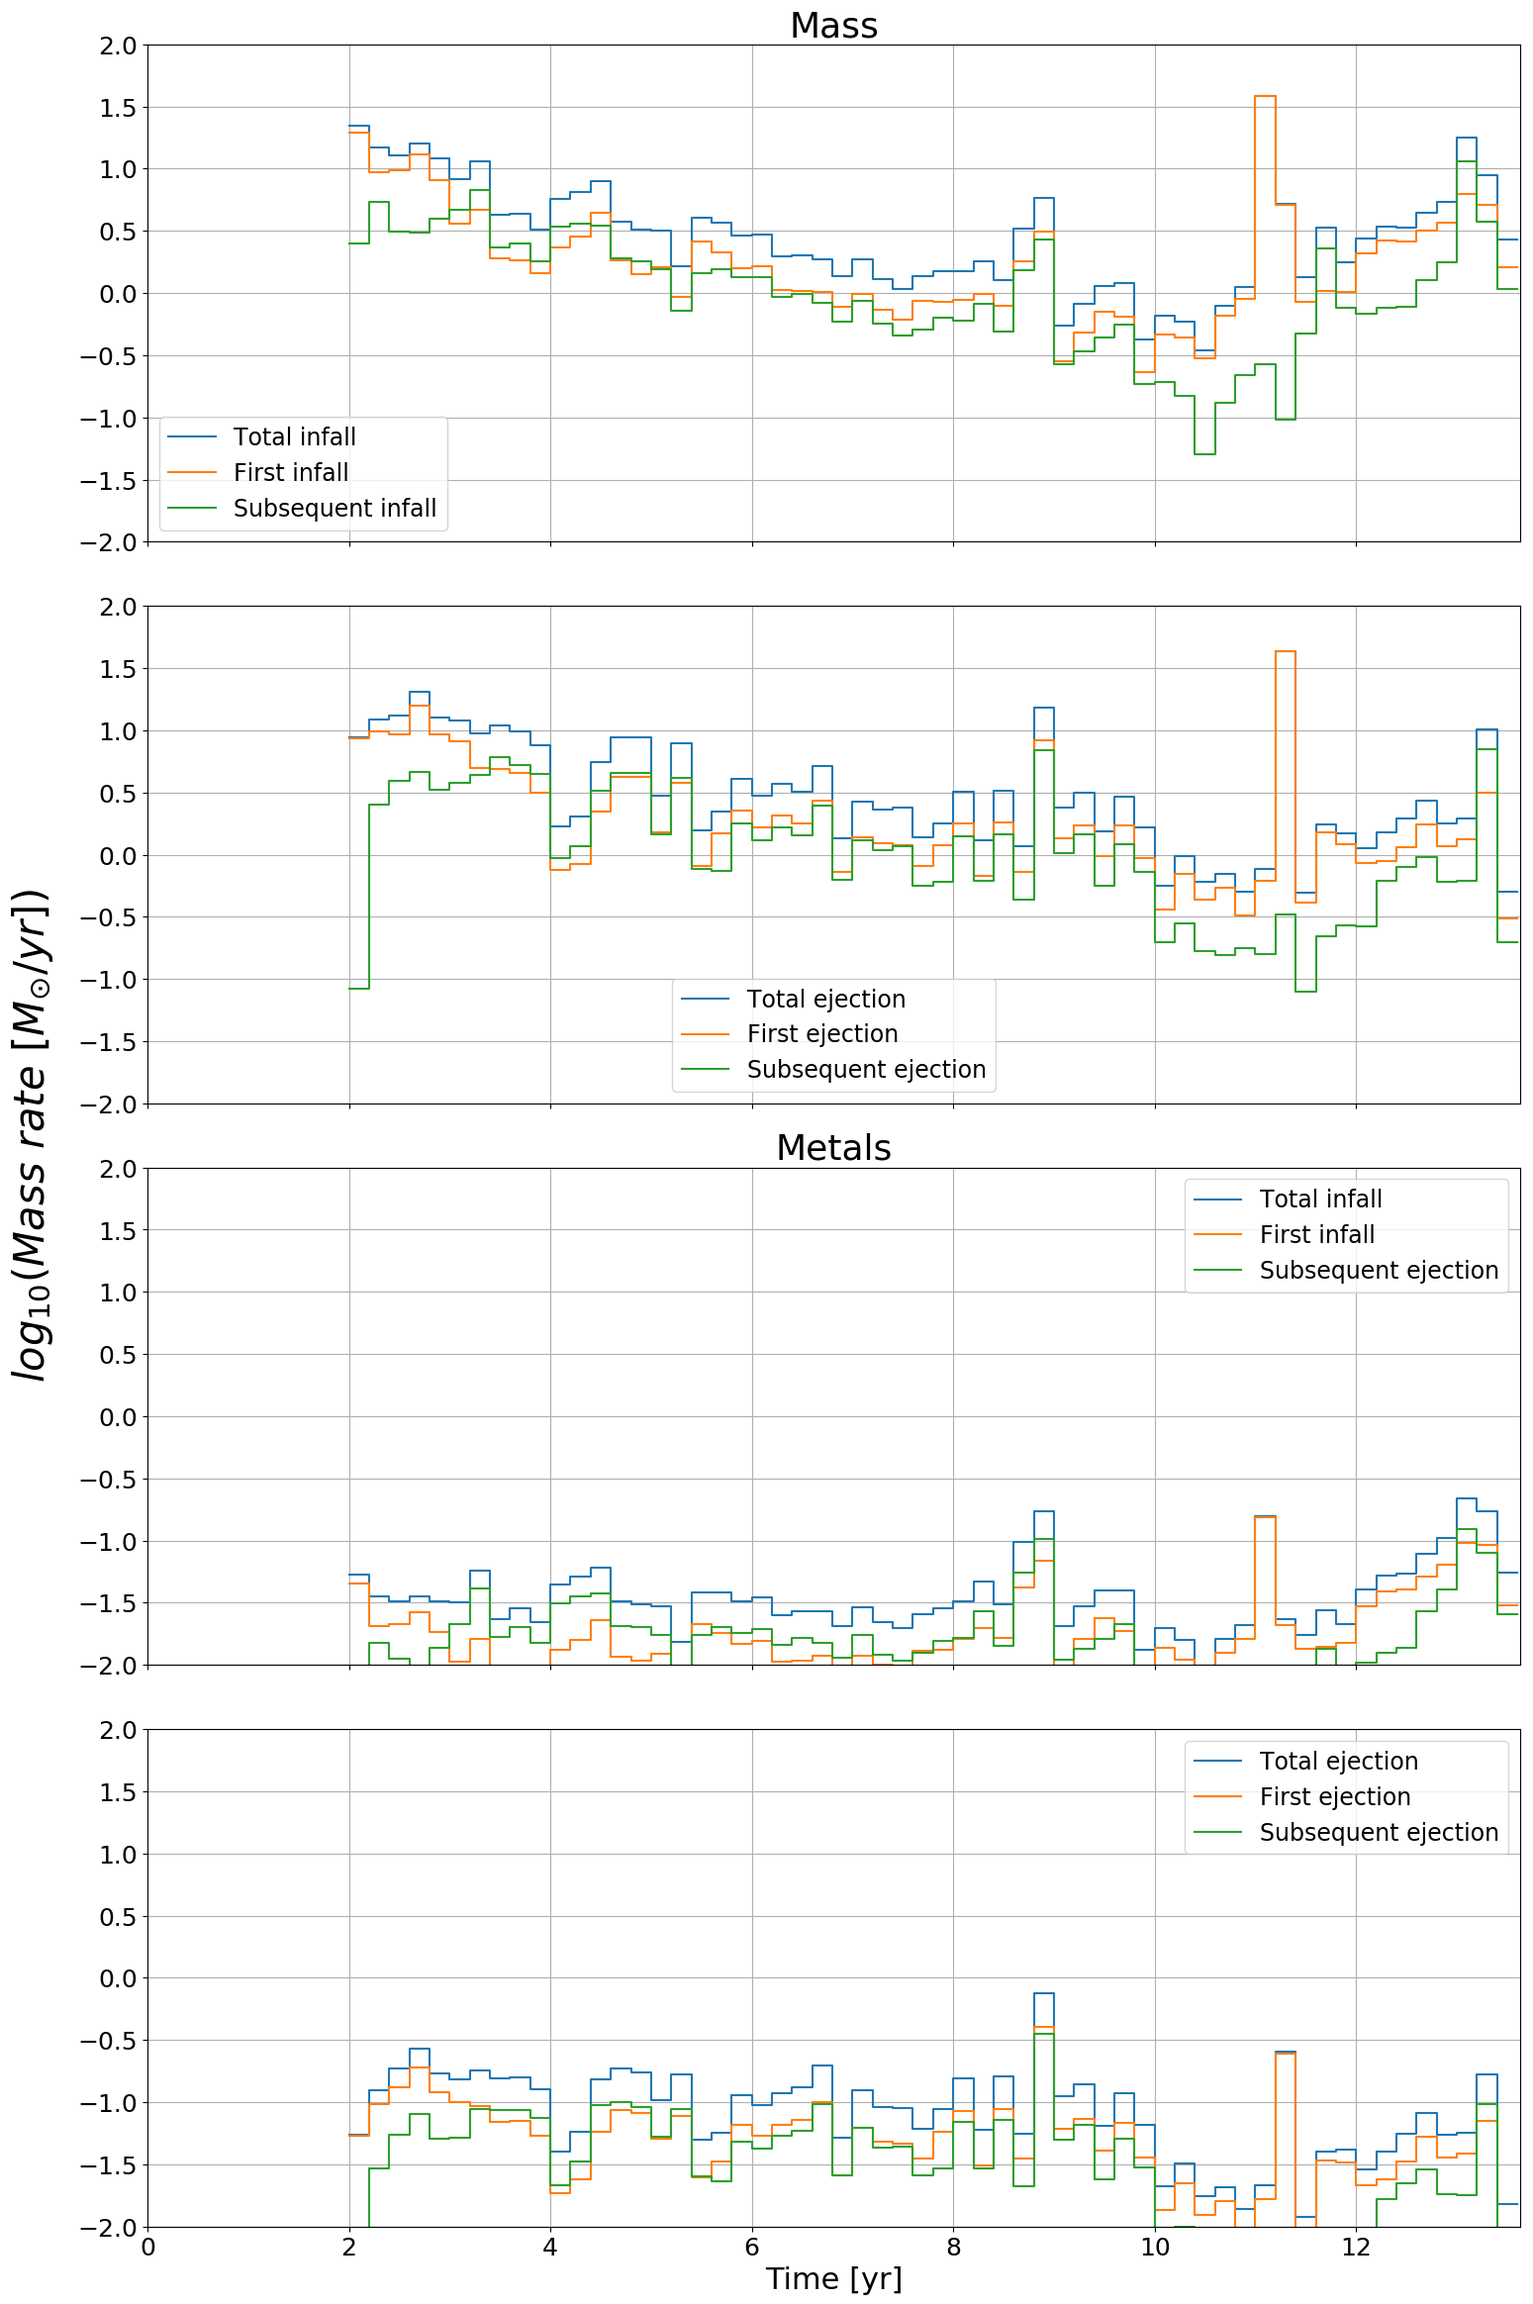
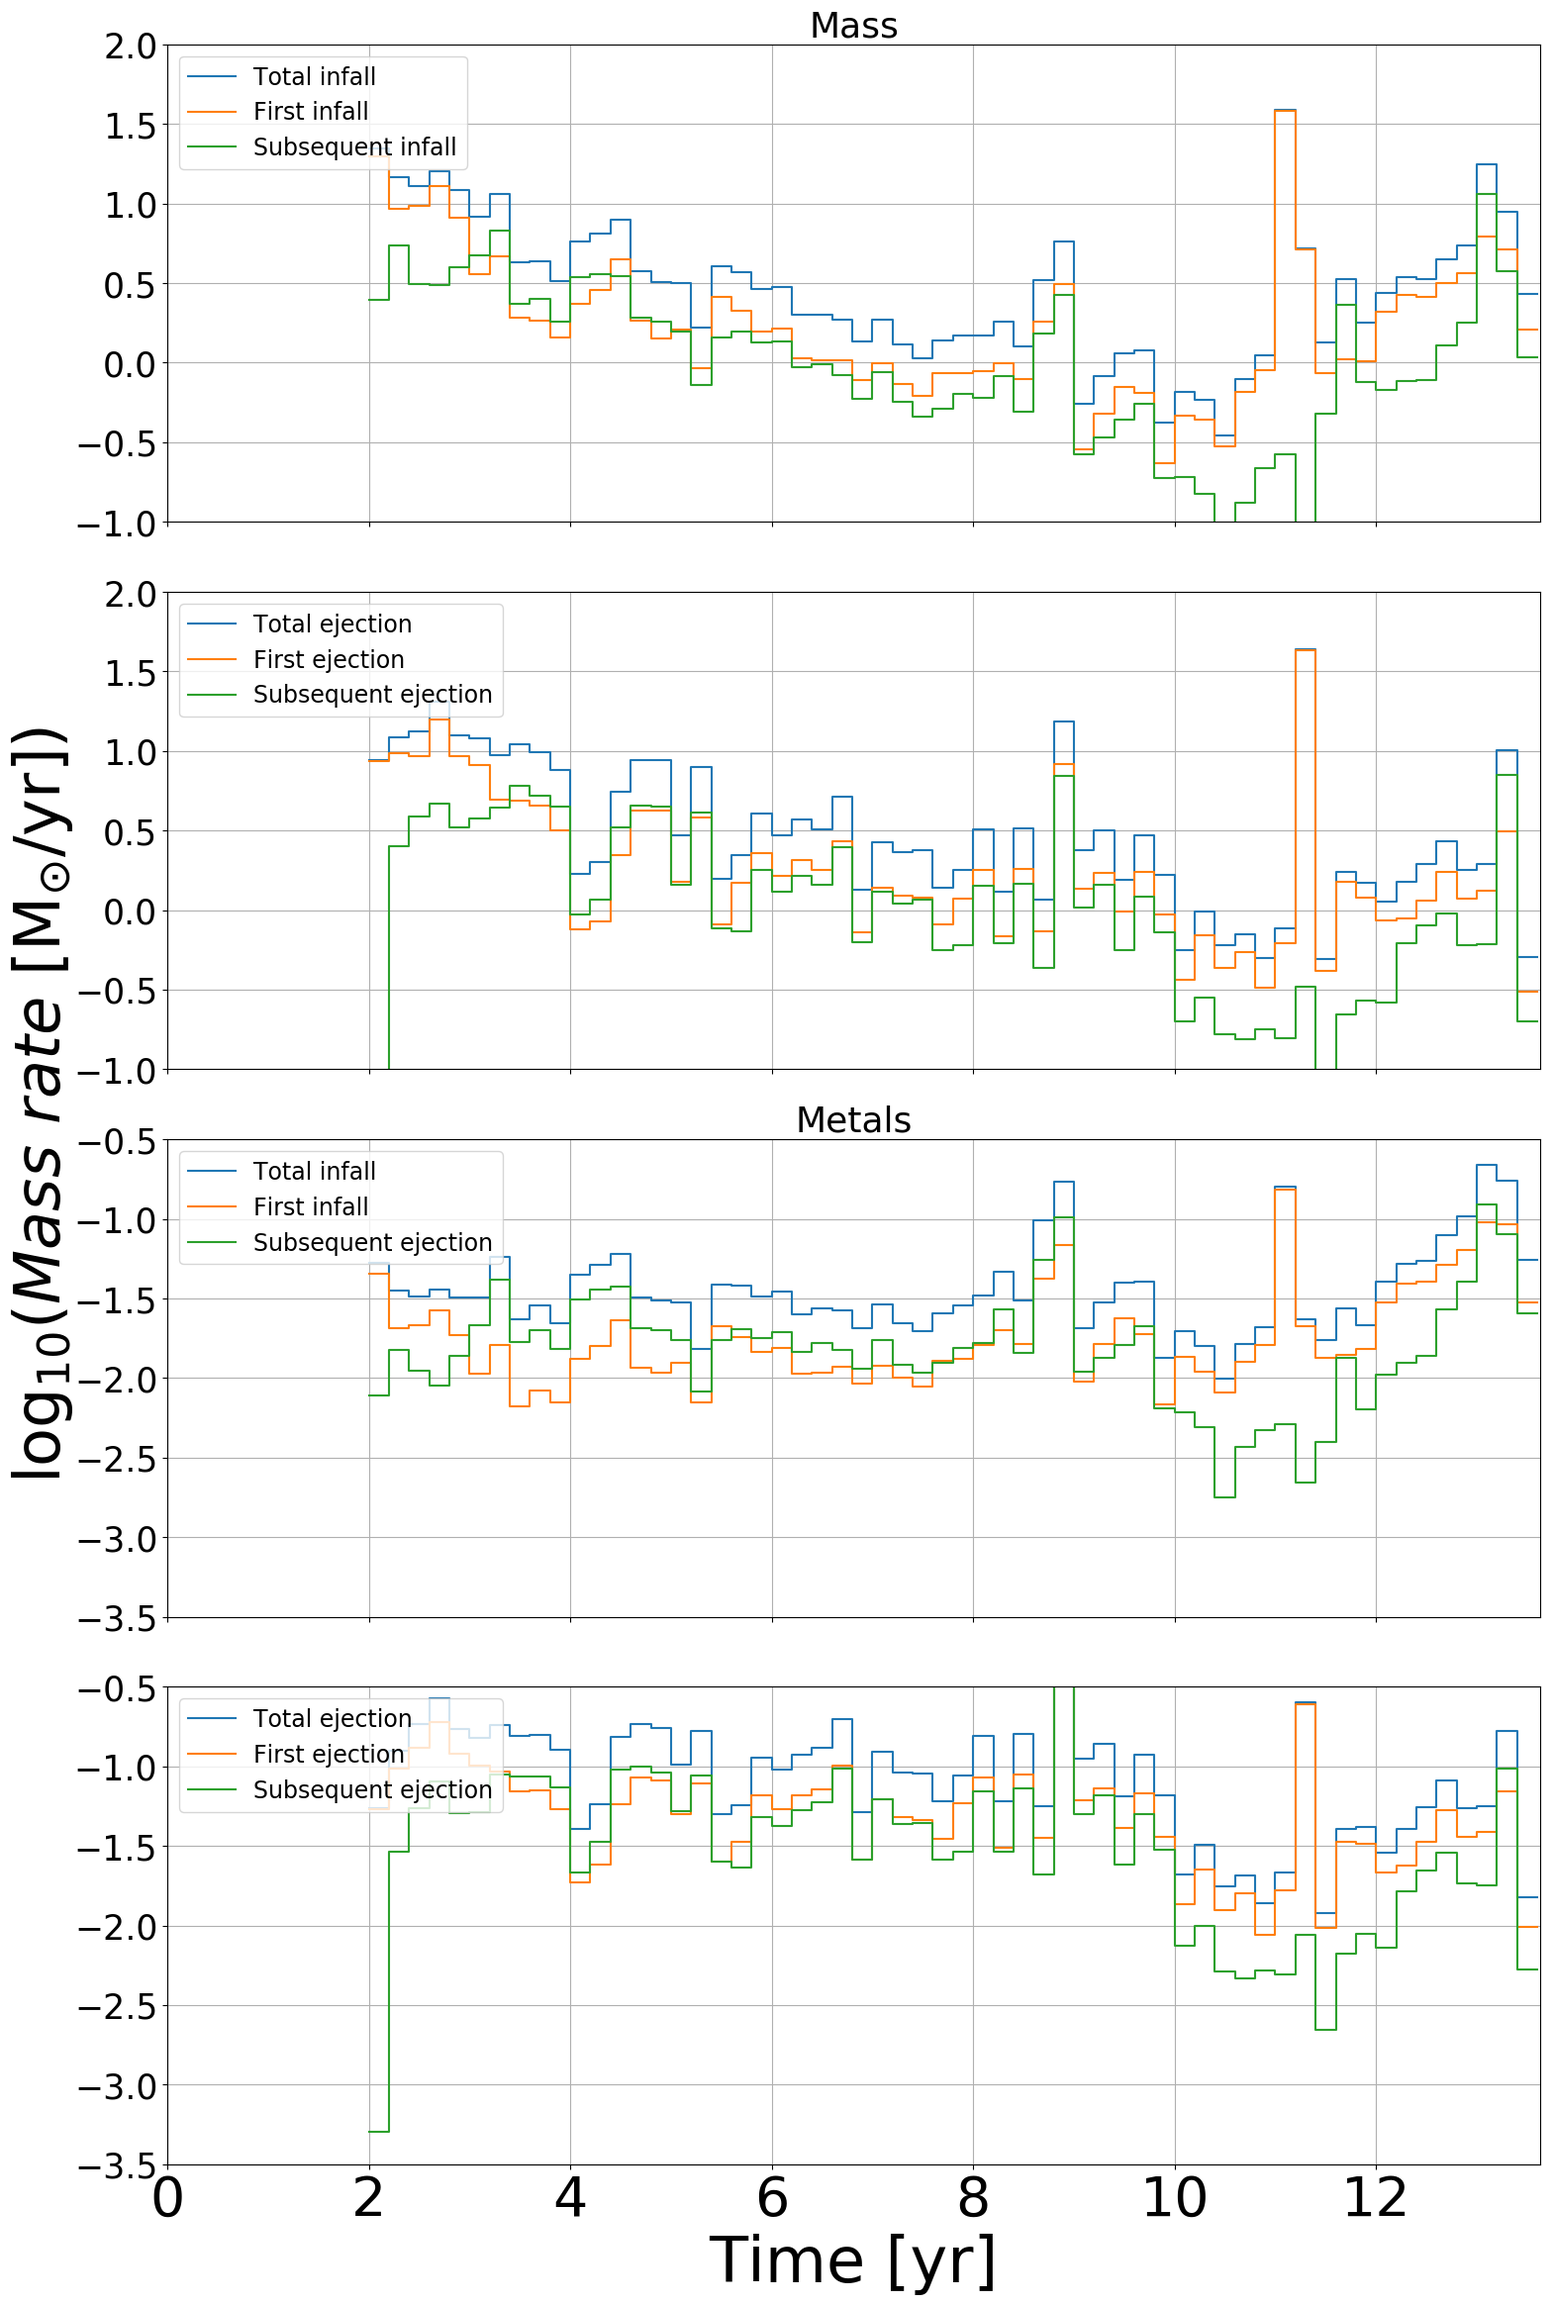
in_out_over_time set proper yscales

diff --git a/1/in_out_over_time.py b/1/in_out_over_time.py
@@ -69,32 +69,39 @@ def plot(args):
 
     f, (ax1, ax2, ax3, ax4) = plt.subplots(4, figsize=utils.figsize * 2)
     axes = (ax1, ax2, ax3, ax4)
+    ax4.set_xlabel("Time [yr]", fontsize=46)
+    plt.setp(ax4.xaxis.get_majorticklabels(), fontsize=40)
     for ax in axes:
         ax.set_xlim((0, s.cosmic_time()))
-        ax.set_ylim((-2, 2))
-    ax4.set_xlabel("Time [yr]")
+        plt.setp(ax.yaxis.get_majorticklabels(), fontsize=25)
     for ax in axes[:-1]:
         ax.tick_params(labelbottom='off')
+    for ax in (ax1, ax2):
+        ax.set_ylim((-1, 2))
+    for ax in (ax3, ax4):
+        ax.set_ylim((-3.5, -.5))
 
     ax1.set_title("Mass")
     ax1.step(bins[:-1], mass_infall, label='Total infall')
     ax1.step(bins[:-1], mass_infall_initial, label='First infall')
     ax1.step(bins[:-1], mass_infall_reac, label='Subsequent infall')
-    lgd1 = ax1.legend(loc='best', fontsize=17)
+    lgd1 = ax1.legend(loc='upper left', fontsize=17)
+
     ax2.step(bins[:-1], mass_ejection, label='Total ejection')
     ax2.step(bins[:-1], mass_ejection_initial, label='First ejection')
     ax2.step(bins[:-1], mass_ejection_reac, label='Subsequent ejection')
-    lgd2 = ax2.legend(loc='best', fontsize=17)
+    lgd2 = ax2.legend(loc='upper left', fontsize=17)
 
     ax3.set_title("Metals")
     ax3.step(bins[:-1], metals_infall, label='Total infall')
     ax3.step(bins[:-1], metals_infall_initial, label='First infall')
     ax3.step(bins[:-1], metals_infall_reac, label='Subsequent ejection')
-    lgd3 = ax3.legend(loc='best', fontsize=17)
+    lgd3 = ax3.legend(loc='upper left', fontsize=17)
+
     ax4.step(bins[:-1], metals_ejection, label='Total ejection')
     ax4.step(bins[:-1], metals_ejection_initial, label='First ejection')
     ax4.step(bins[:-1], metals_ejection_reac, label='Subsequent ejection')
-    lgd4 = ax4.legend(loc='best', fontsize=17)
+    lgd4 = ax4.legend(loc='upper left', fontsize=17)
 
     f.tight_layout()
 
@@ -107,7 +114,7 @@ def plot(args):
 
     aux1 = f.add_subplot(gs[:, 0])
 
-    aux1.set_ylabel(r"$log_{10}\left(Mass\ rate\ [M_{\odot}/yr]\right)$", fontsize=30)
+    aux1.set_ylabel(r"$\log_{10}\left(Mass\ rate\ \mathrm{[M_{\odot}/yr]}\right)$", fontsize=46)
 
     for ax in [aux1,]:
         ax.tick_params(size=0)
